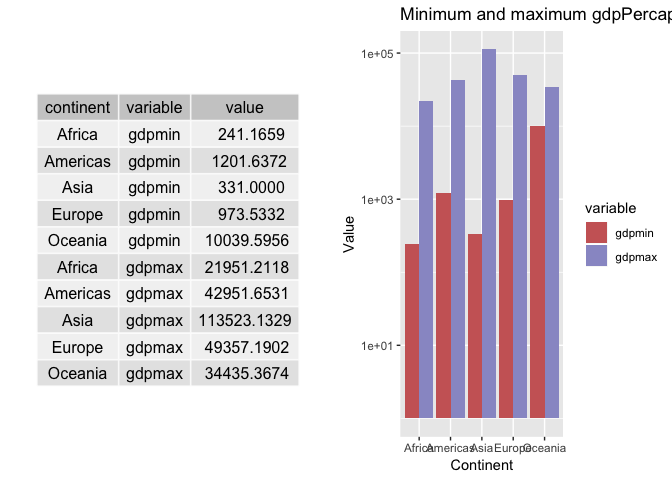
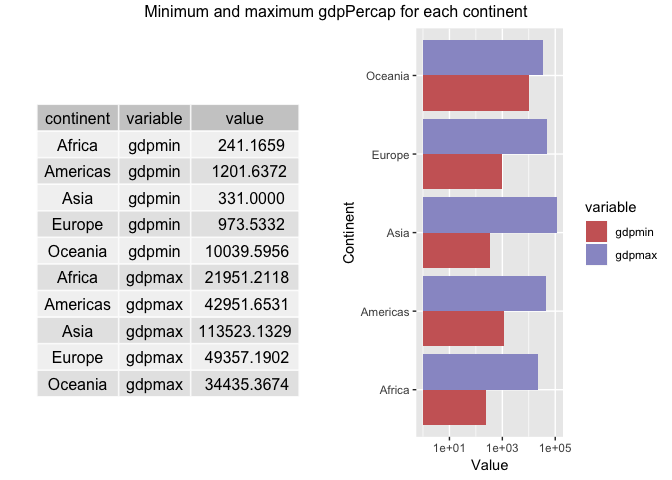
changes done

diff --git a/hw03.md b/hw03.md
@@ -3,7 +3,7 @@ Exploring dplyr package
 Irissq28
 29th September, 2018
 
-##### Bring rectangular data in
+### Bring rectangular data in
 
 -   `dplyr` is my data manipulation tool
 -   `ggplot2` is my visualization tool
@@ -39,9 +39,7 @@ library(gridExtra)
     ## 
     ##     combine
 
-#### The Assighment
-
-##### Task menu 1
+### Task menu 1
 
 **Get the maximum and minimum of GDP per capita for all continents.**
 
@@ -77,19 +75,21 @@ mplot <- ggplot(mdata,aes(continent,value,fill = variable )) +
   scale_fill_manual(values = c("#CC6666","#9999CC")) +
   #scale the data to make the graph readable
   scale_y_log10() +
-  labs(x = "Continent", y = "Value", title = "Minimum and maximum gdpPercap for each continent")
+  coord_flip() +
+  labs(x = "Continent", y = "Value")
 
 tt <- ttheme_default(base_size = 12,
                      colhead=list(fg_params = list(parse=TRUE)))
 mdata_table <- tableGrob(mdata,rows = NULL,theme = tt)
 
 grid.arrange(mdata_table, mplot,
-             as.table = TRUE,nrow = 1)
+             as.table = TRUE,nrow = 1,
+             top = "Minimum and maximum gdpPercap for each continent")
 ```
 
 ![](hw03_files/figure-markdown_github/Form%20a%20new%20table%20with%20%60melt%60%20and%20data%20visualization-1.png)
 
-##### Task menu 2
+### Task menu 2
 
 **Look at the spread of GDP per capita within the continents.**
 
@@ -127,7 +127,7 @@ grid.arrange(spread_GDP_plot, spreadGDPtable,
 
 From this graph, we can notice that the difference between the maximum GDP per capita and minimum GDP per capita is high in Asia, which might be the reason that the standard deviation is higher than mean GDP per capita in Asia. For situation in Oceania, the value of GDP per capita performed in a opposite way, which is reasonable according to our previous explaination.
 
-##### Task menu 3
+### Task menu 3
 
 **Compute a trimmed mean of life expectancy for different years. Or a weighted mean, weighting by population. Just try something other than the plain vanilla mean.**
 
@@ -170,7 +170,7 @@ weighed %>%
 
 ![](hw03_files/figure-markdown_github/Data%20visualization%20:%20Changing%20in%20weighted%20mean%20of%20life%20expectancy%20for%20different%20years-1.png)
 
-##### Task menu 4
+### Task menu 4
 
 **How is life expectancy changing over time on different continents**
 
@@ -272,7 +272,7 @@ ggplot(change5,aes(year,change,color = continent)) +
 
 It can be noticed that the life expectancy keeps increasing for most of continents over years except for Africa, which has a little decrease after the year of 2000.
 
-##### Task menu 5
+### Task menu 5
 
 **Report the absolute and/or relative abundance of countries with low life expectancy over time by continent: Compute some measure of worldwide life expectancy - you decide - a mean or median or some other quantile or perhaps your current age. Then determine how many countries on each continent have a life expectancy less than this benchmark, for each year**
 
@@ -426,7 +426,7 @@ lowercountry %>%
 
 ![](hw03_files/figure-markdown_github/The%20number%20of%20countries%20on%20each%20continent%20have%20a%20low%20life%20expectancy%20for%20each%20year-1.png)
 
-##### Task menu 6
+### Task menu 6
 
 **Find countries with interesting stories. Open-ended and, therefore, hard. Promising but unsuccessful attempts are encouraged. This will generate interesting questions to follow up on in class.**
 
@@ -501,11 +501,11 @@ lifeExphighorlow %>%
 
 ![](hw03_files/figure-markdown_github/Number%20of%20countries%20with%20low%20life%20expectancy%20in%20Europe-1.png)
 
-##### But I want to do more
+### But I want to do more
 
 Getting table and figure side-by-side, Please check [task menu 1](#Task%20menu%201) , also [task menu 2](#Task%20menu%202) For [nice fancy table](#Task%20menu%201), Please check task menu 1
 
-##### References
+### References
 
 [Displaying tables as grid graphics](https://cran.r-project.org/web/packages/gridExtra/vignettes/tableGrob.html)
 
